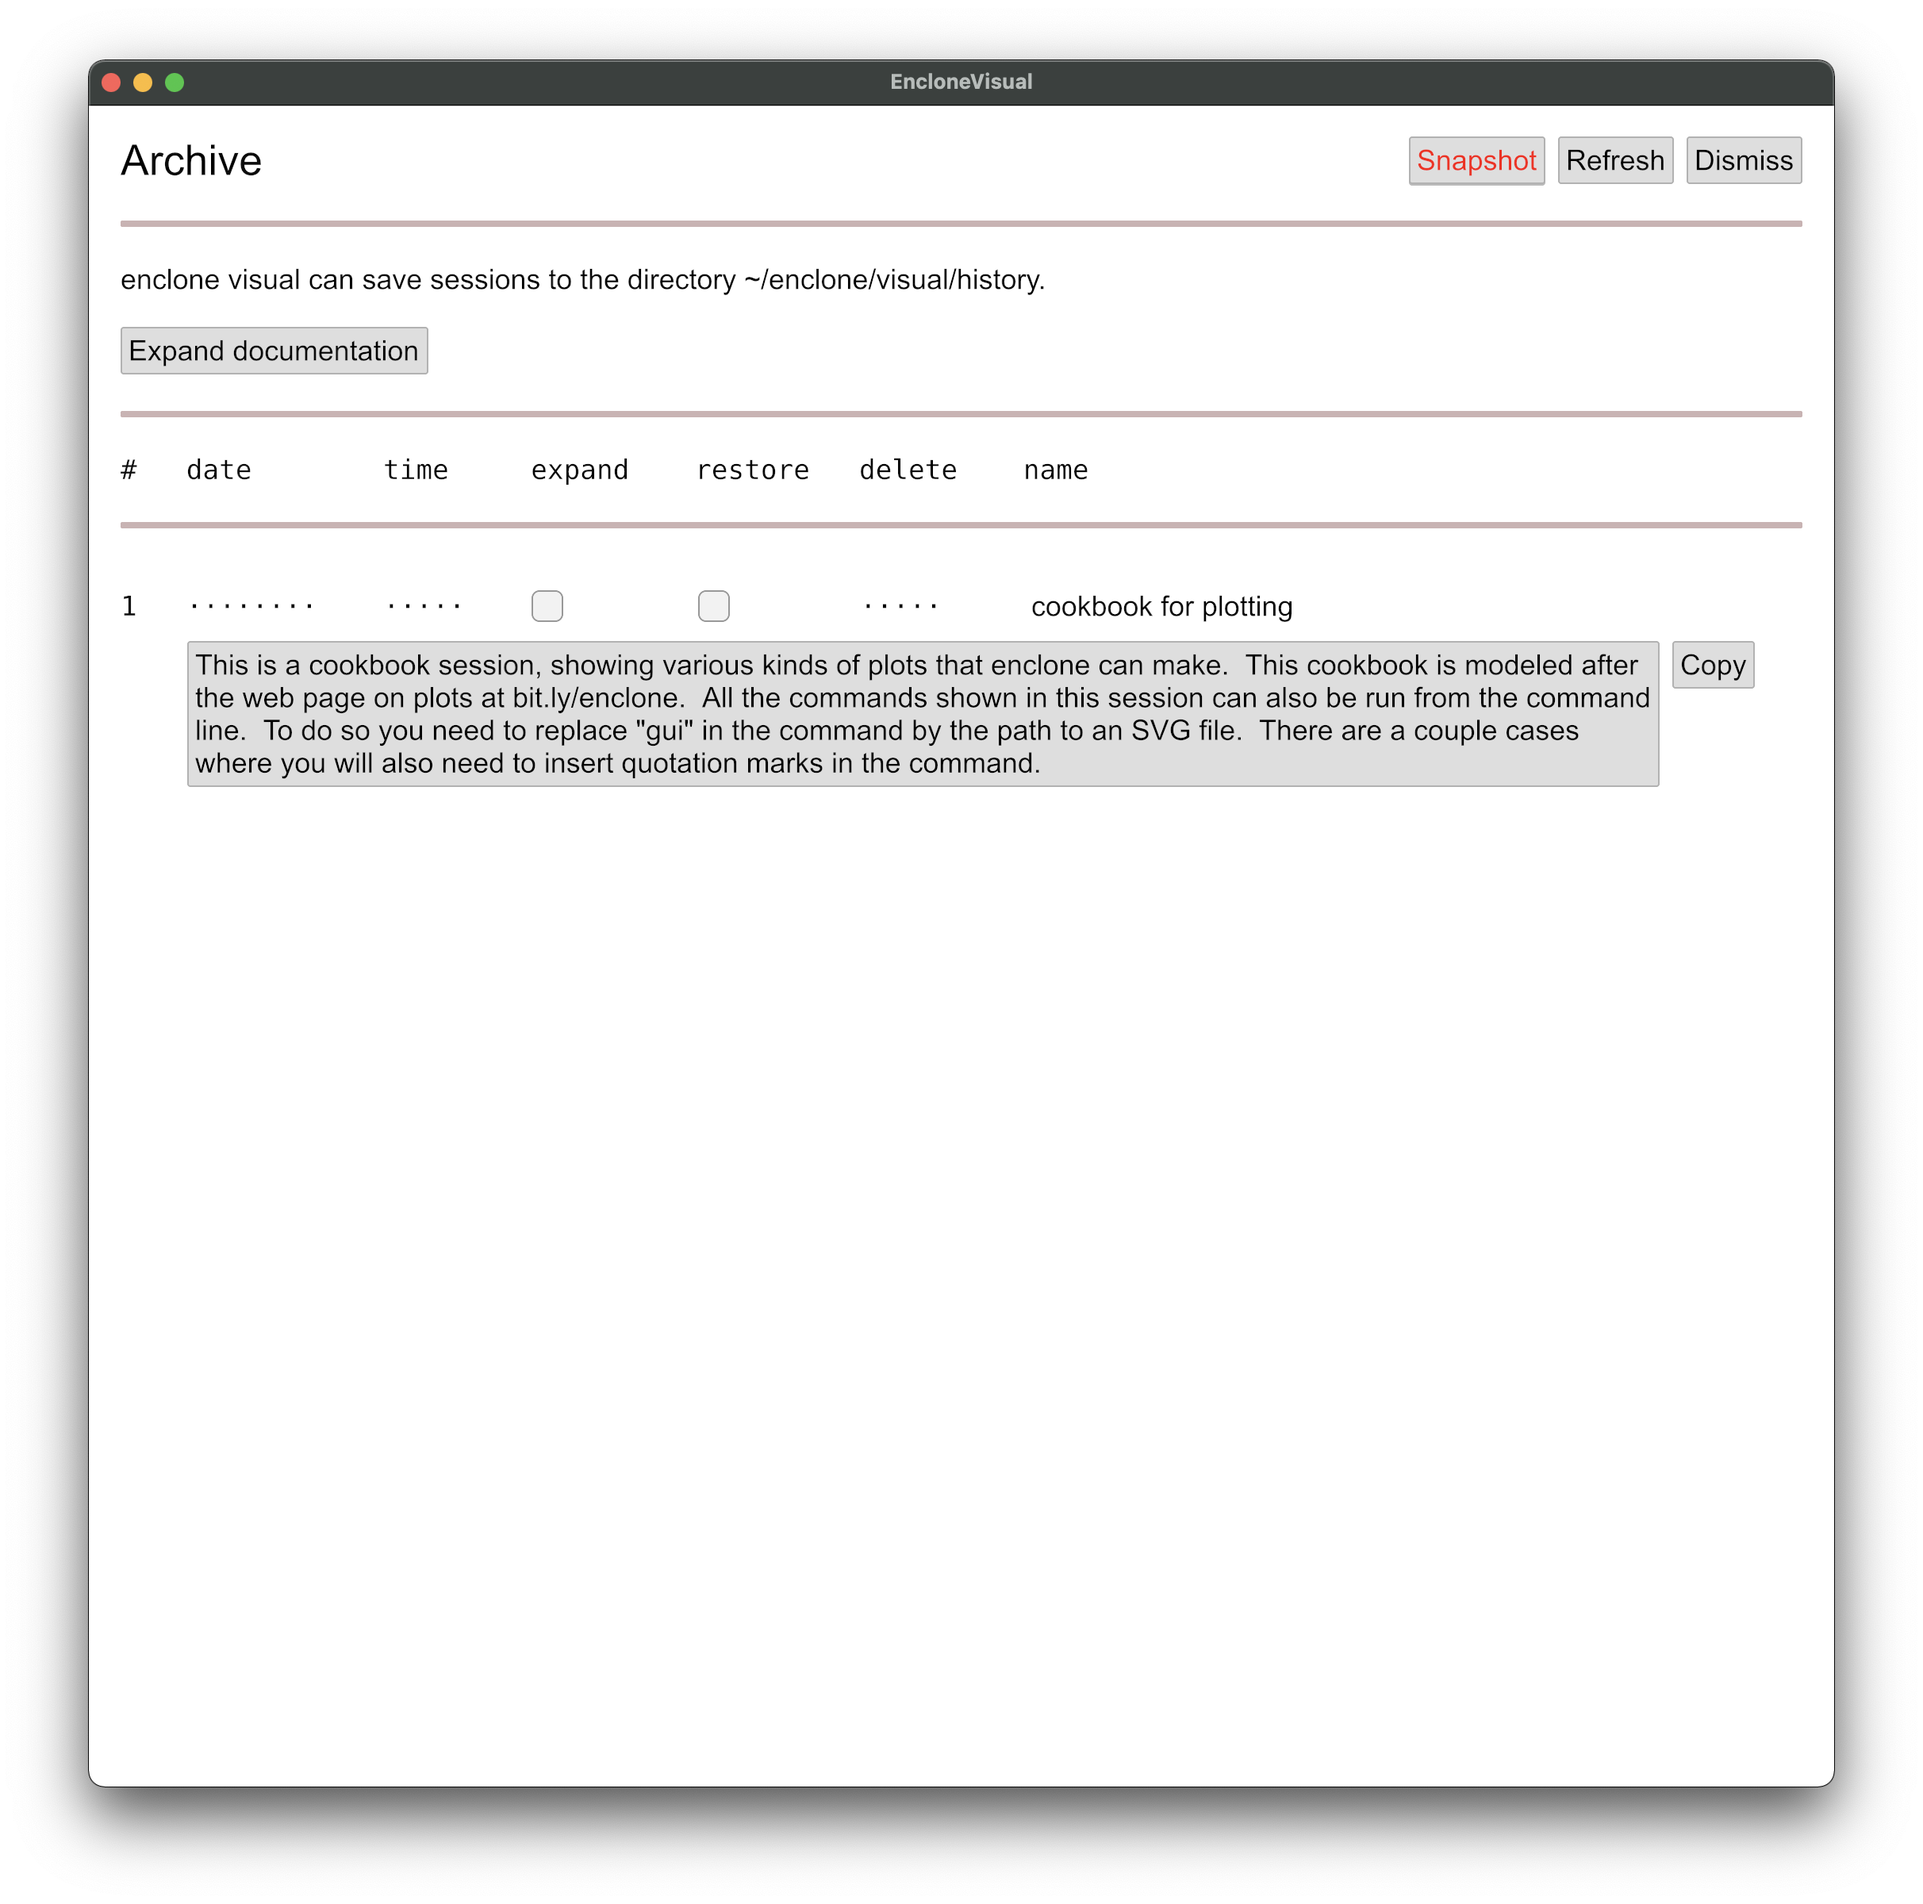
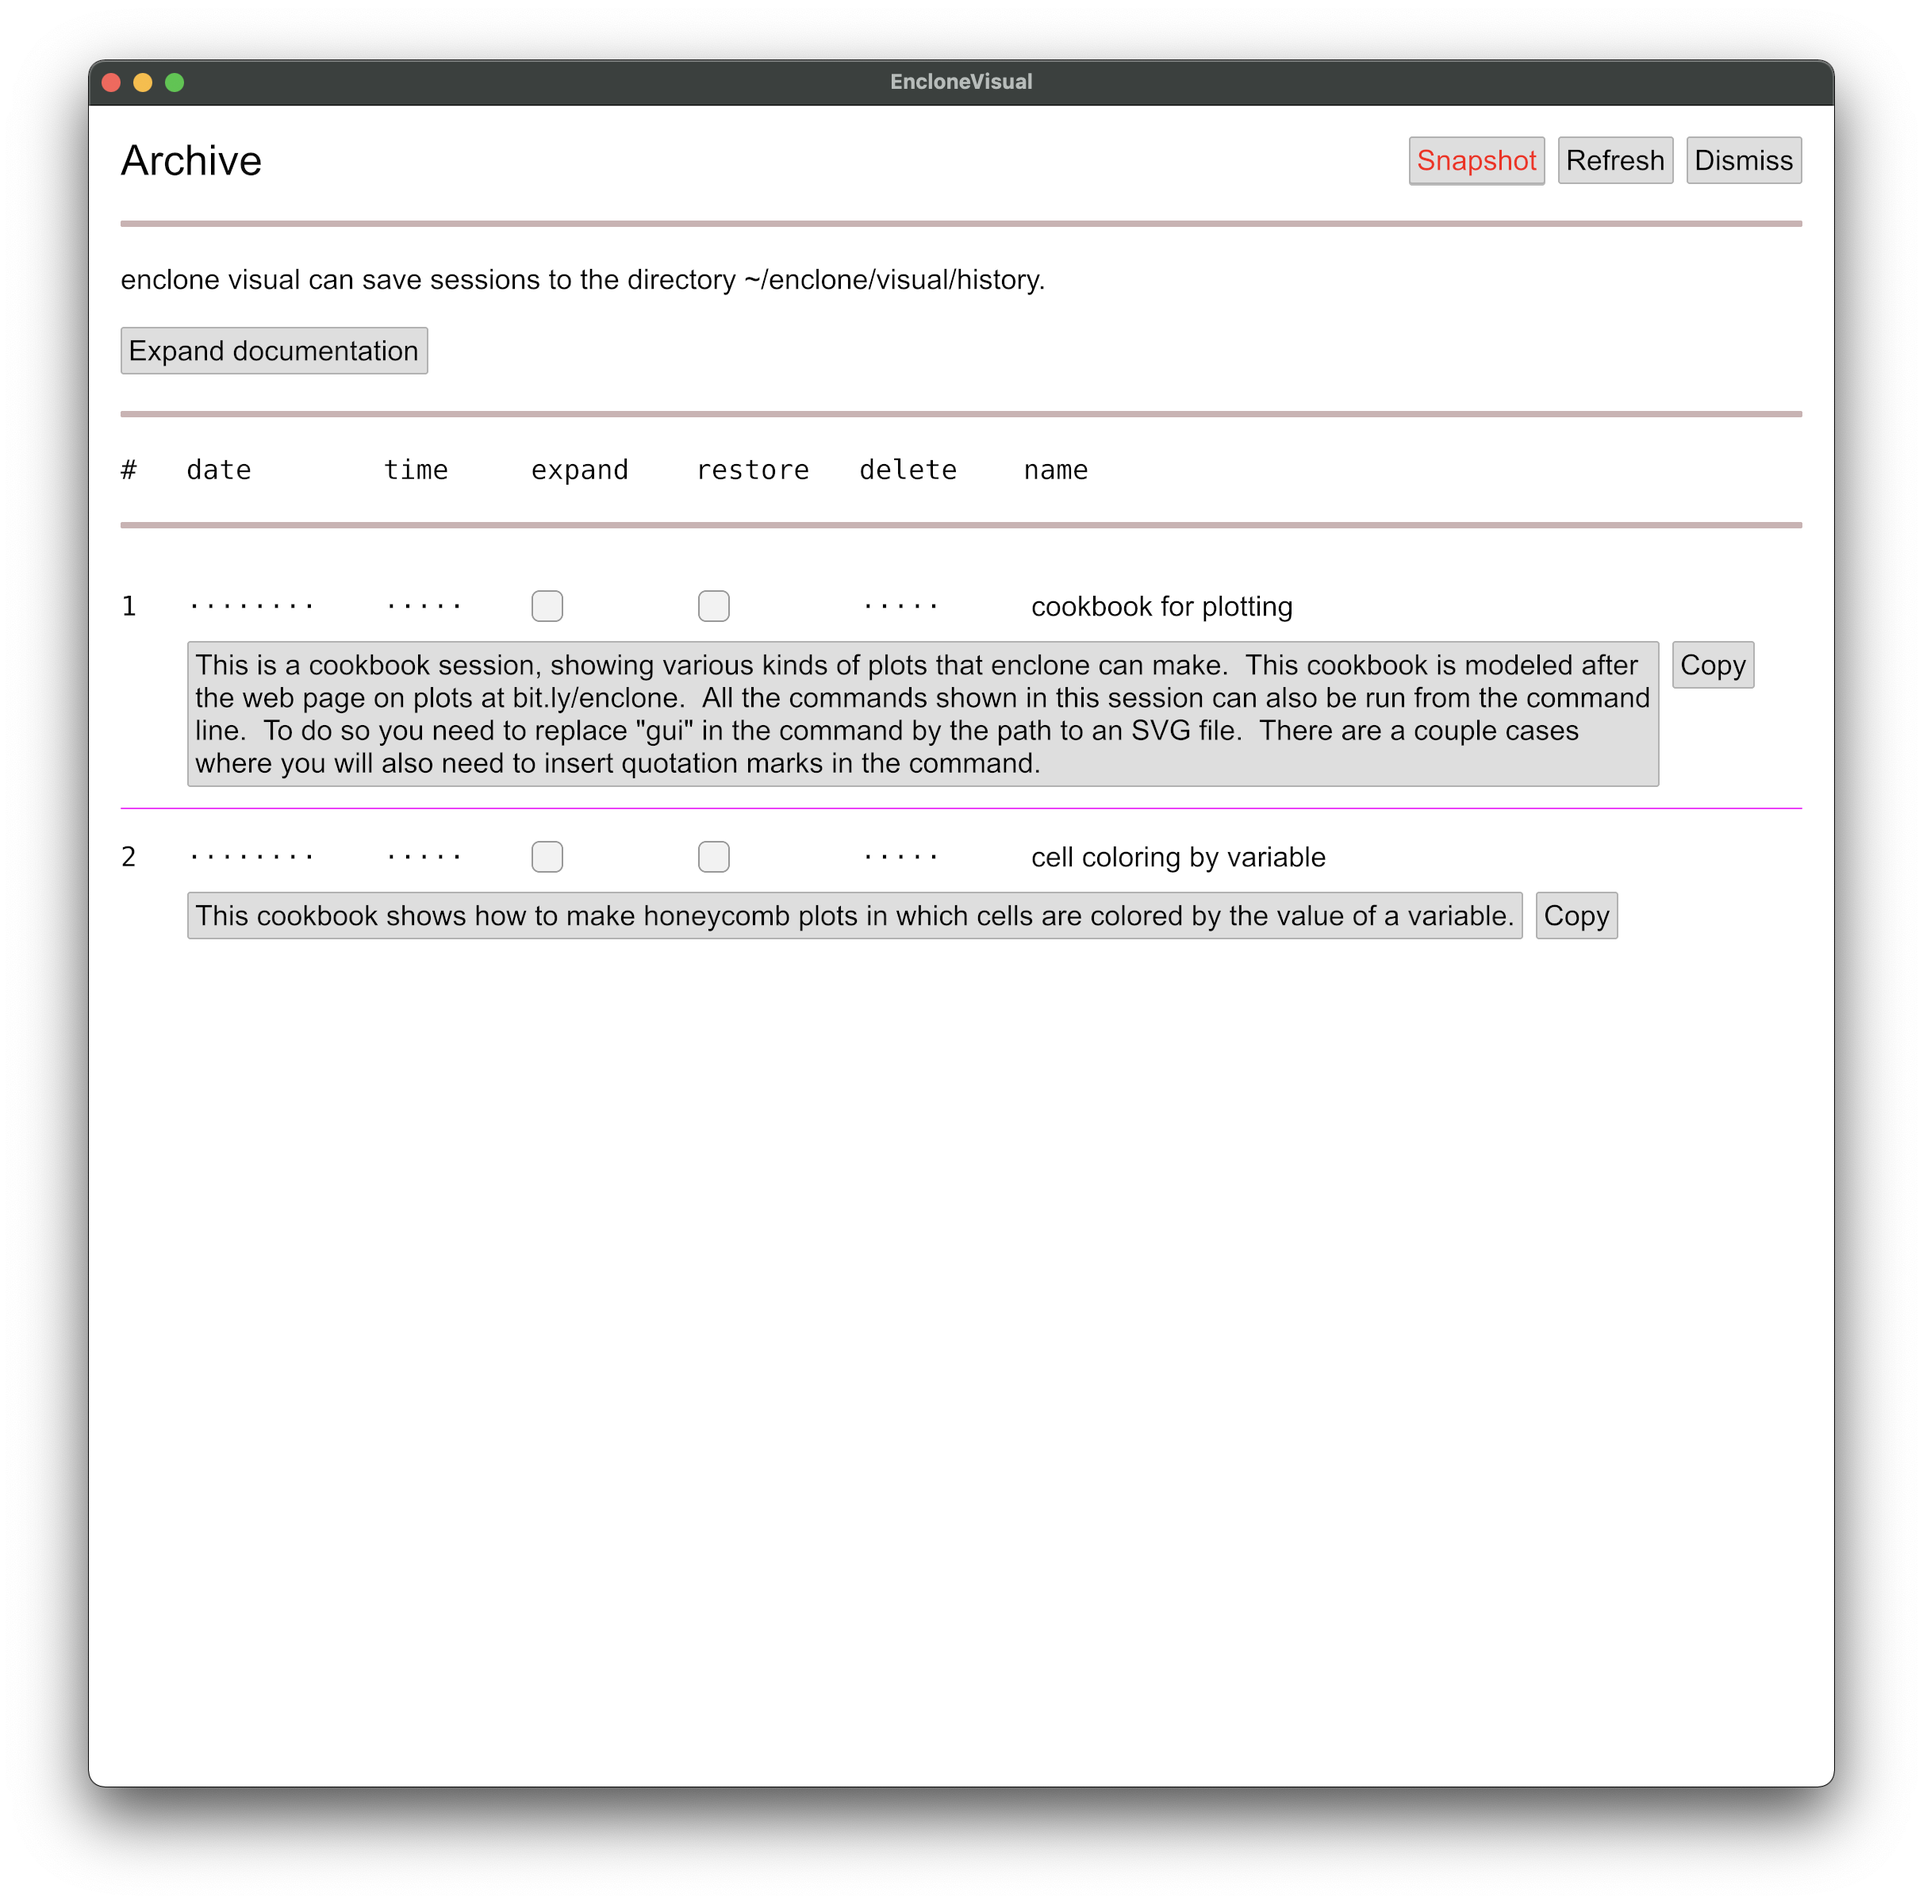
update explanation around cookbooks

Changed region(s): [[0.0928, 0.4375, 0.8663, 0.5]]

diff --git a/pages/auto/visual.html b/pages/auto/visual.html
@@ -111,7 +111,7 @@ understand how the system works.  Some of the behavior is counterintuitive but e
 
 <! --- ▓▓▓▓▓▓▓▓▓▓▓▓▓▓▓▓▓▓▓▓▓▓▓▓▓▓▓▓▓▓▓▓▓▓▓▓▓▓▓▓▓▓▓▓▓▓▓▓▓▓▓▓▓▓▓▓▓▓▓▓▓▓▓▓▓▓▓▓▓▓▓▓▓▓▓▓▓▓▓▓▓▓▓▓▓▓▓ --->
 
-<h2>Read the cookbook!</h2>
+<h2>Read the cookbooks!</h2>
 
 <p>Push the <code>Archive</code> button.  You will see the following (without the red coloring
 of the Snapshot button, which is how we captured the image):
@@ -119,15 +119,15 @@ of the Snapshot button, which is how we captured the image):
 title="enclone visual archive">
 <br>
 If you later save <span style="color:rgb(120,123,175);font-weight:900">enclone visual</span> sessions, they will appear as entries on this page.  For now,
-there is only one entry, which is a built-in cookbook.  Please expand and read the documentation.
-Then check the <code>restore</code> box, and push <code>Dismiss</code> to return to the main page.
-Now work your way through the cookbook.</p>
+there are only two entries, which are built-in cookbooks.  Please expand and read the documentation.
+Then for each cookbook, in turn, check the <code>restore</code> box, push <code>Dismiss</code> to 
+return to the main window, and work your way through.</p>
 
 <! --- ▓▓▓▓▓▓▓▓▓▓▓▓▓▓▓▓▓▓▓▓▓▓▓▓▓▓▓▓▓▓▓▓▓▓▓▓▓▓▓▓▓▓▓▓▓▓▓▓▓▓▓▓▓▓▓▓▓▓▓▓▓▓▓▓▓▓▓▓▓▓▓▓▓▓▓▓▓▓▓▓▓▓▓▓▓▓▓ --->
 
 <h2>An example</h2>
 
-<p>Here we show an example.  You would have seen this in the cookbook, but we show it here too.
+<p>Here we show an example.  You would have seen this in the cookbooks, but we show it here too.
 (Note that the outputs here may change over time as <span style="color:rgb(120,123,175);font-weight:900">enclone</span> is updated.)
 Enter this command
 <code>enclone BCR=123085 HONEY=out=gui,color=var,u_cell2</code> in the command box.
